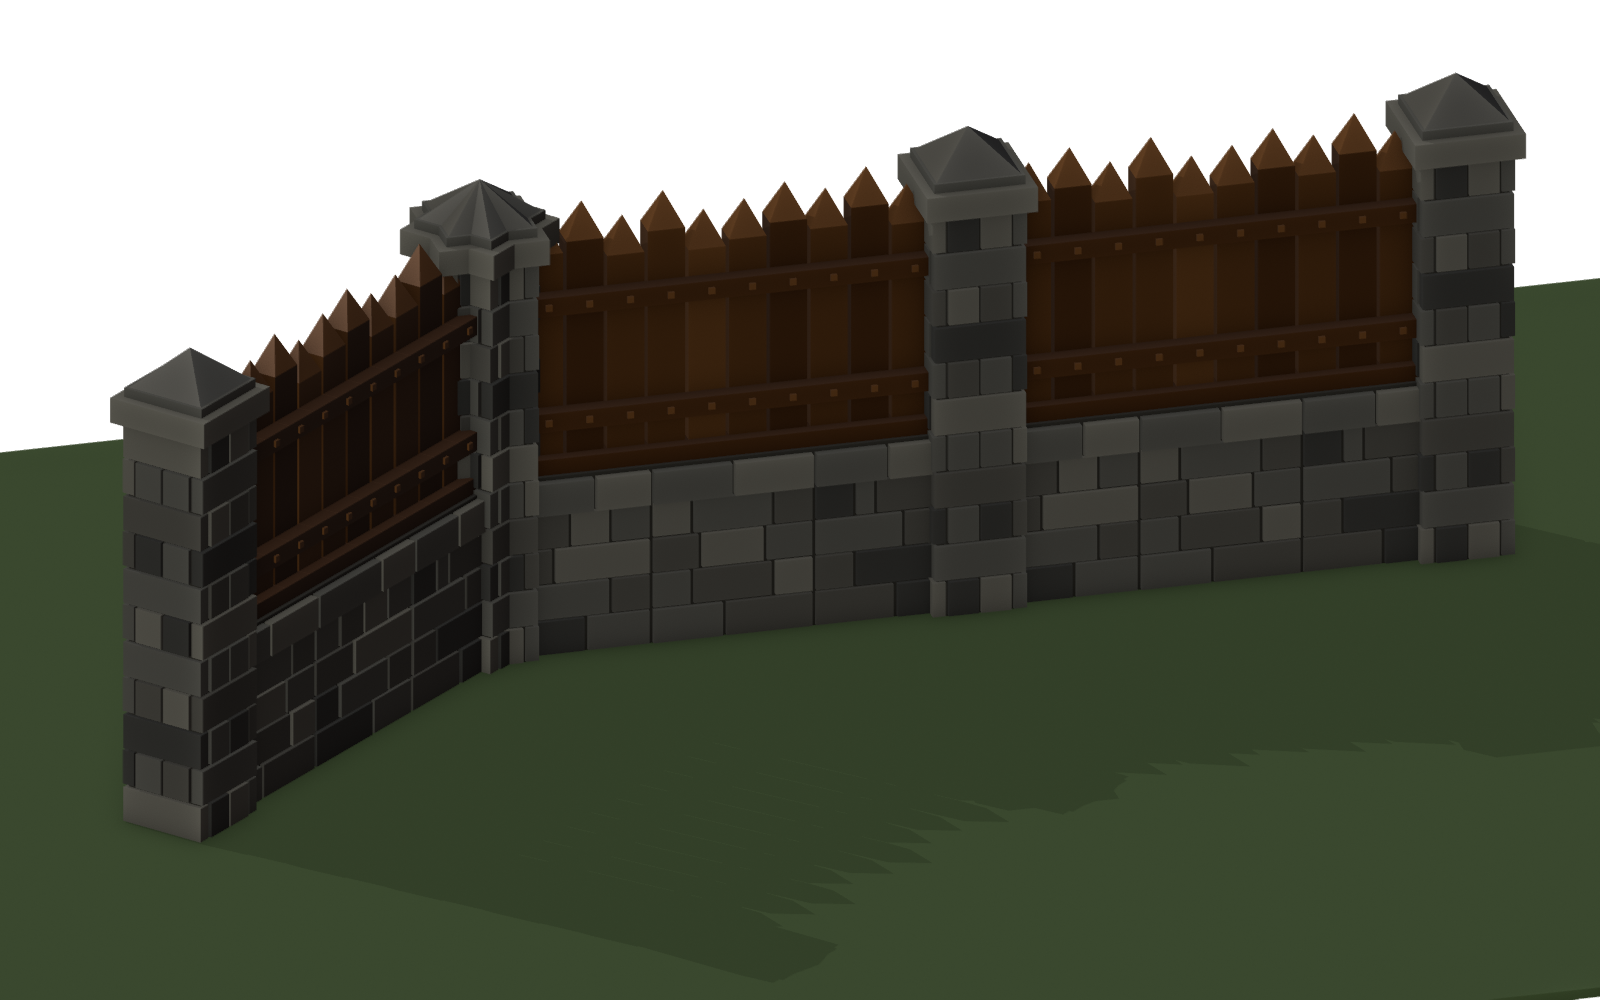
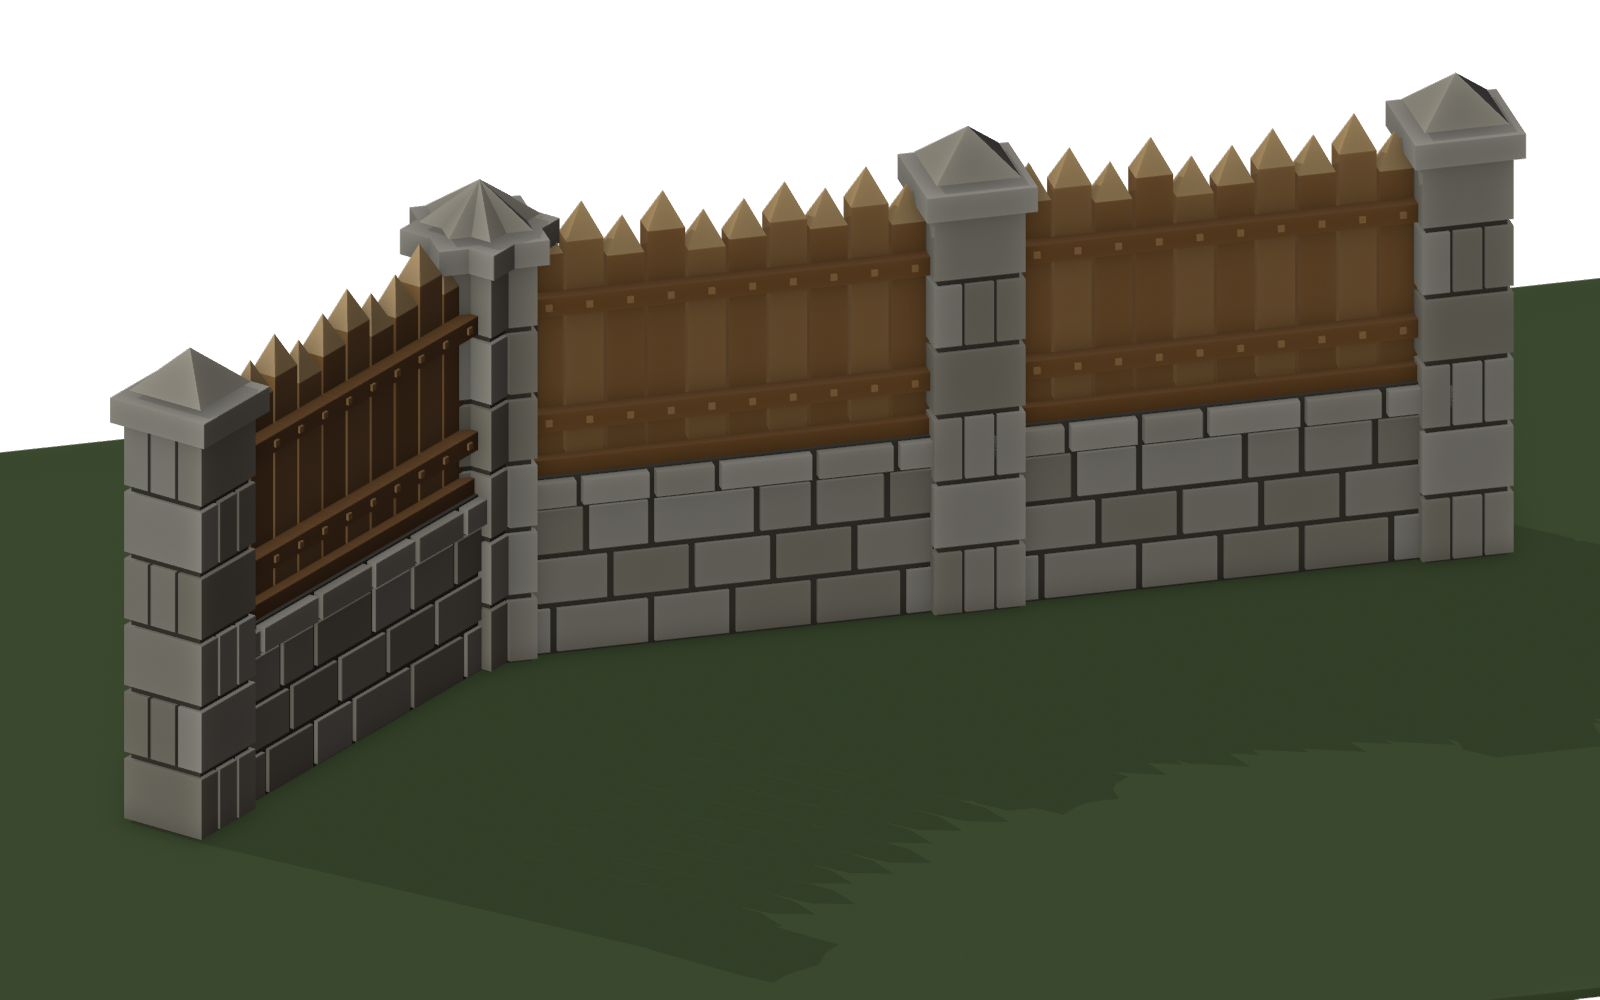
Wall level 2: fewer, chunkier, lighter stones; lighter oak
Kevin: fewer and chunkier stones, readability, lighter stones and wood.
Base 5 courses -> 3 of half-metre stones under a capstone course; pillar
11 courses -> 6; plain stones in three pale tones with wide dark joints;
shared end stones meet flush across modules; light oak, dark iron.

Claude-Session: https://claude.ai/code/session_016CGLgDxKZuNqnwErxW1EMm

diff --git a/tools/blender/wall_l2_concept.py b/tools/blender/wall_l2_concept.py
@@ -36,43 +36,53 @@ OUT=ROOT/'wall-l2-concept'
 L1=Path('/tmp/claude-0/sc/wall')         # level 1 palisade FBX copies, for the comparison render (see fetch_l1)
 L1_URL='https://media.githubusercontent.com/media/anderssonkevin94-boop/seasick/ships-into-unity/art-staging/palisade-astra-lvl1-v2/'
 
-C.update(stone_l=(146,141,128),stone_m=(112,108,99),stone_dd=(84,82,77),mortar_d=(78,74,66),
-         oak=(112,70,34),oak_d=(92,56,27),oak_l=(132,84,42))
+# Light and few: three pale stone tones over darker mortar (the joints carry the
+# read), light oak, dark iron for contrast.
+C.update(st1=(214,207,190),st2=(199,191,173),st3=(226,220,205),mortar_d=(112,105,93),
+         oak=(200,144,86),oak_d=(170,118,66),oak_l=(216,162,102),oak_tip=(232,192,134))
 
 BASE_H=1.15;BASE_T=.40                  # stone base height, thickness (Y -0.2..0.2)
-COURSE=BASE_H/5
+CAP=.19;COURSE=(BASE_H-CAP)/3           # three chunky courses and a capstone course
 SILL=(.32,.10)                          # oak sill on the base: depth, height
 TIMBER=(.23,.17)                        # width along the wall, depth
 PITCH=.25
 POST_W=.56;POST_H=3.05
 
 
-def stone_course(p,x0,x1,z0,h,joints,seed,y0=-BASE_T/2,y1=BASE_T/2):
+JOINT=.045                              # mortar joint between stones: wide, so each stone reads at game zoom
+
+
+def stone(p,c,size,tone,axis=None):
+    """One chunky block, a plain solid in one tone: the joints round it, not
+    detail on it, make it read."""
+    p.box(c,size,tone)
+
+
+def stone_course(p,x0,x1,z0,h,joints,seed,y0=-BASE_T/2,y1=BASE_T/2,flush=False):
     """One course of blocks from x0 to x1 with vertical joints at `joints`
-    (sorted, inside x0..x1), proud of a mortar core on both faces and the top."""
-    tones=('stone','stone_m','stone_l','stone','stone_m','stone_dd')
-    edges=[x0]+list(joints)+[x1]
+    (sorted, inside x0..x1), over a mortar core, through the wall's thickness.
+    flush: the end stones run right to the module ends with no joint there, so
+    they meet the neighbouring run's end stones as one stone."""
+    tones=('st1','st2','st3')
+    edges=[x0]+list(joints)+[x1];last=len(edges)-2
     for i,(a,b) in enumerate(zip(edges,edges[1:])):
-        t=tones[(seed*7+i*5)%len(tones)];inset=.012
-        bulge=.006*((seed+i)%3)
-        p.box(((a+b)/2,(y0+y1)/2,z0+h/2),(b-a-2*inset,y1-y0+.02+bulge,h-.018),t)
+        a2=a if (flush and i==0) else a+JOINT/2;b2=b if (flush and i==last) else b-JOINT/2
+        tone=tones[seed%3] if flush and i in(0,last) else tones[(seed+i*2)%3]   # both halves of the shared stone match
+        stone(p,((a2+b2)/2,(y0+y1)/2,z0+h/2),(b2-a2,y1-y0+.02,h-JOINT),tone)
 
 
 def run(name,variant):
     """A 1 m run: stone base, sill, four timbers, bands, rear rails."""
     p=Part(name)
     p.box((.5,0,BASE_H/2),(1,BASE_T-.03,BASE_H),'mortar_d')           # core
-    # Courses: even ones join at the module ends, odd ones a quarter in; the
-    # inner joints vary by variant so A/B/C read as different stones.
-    inner={'A':[(.5,),(.25,.75),(.45,),(.25,.62,.75),(.55,)],
-           'B':[(.4,),(.25,.75),(.6,),(.25,.5,.75),(.35,)],
-           'C':[(.55,),(.25,.75),(.3,.7),(.25,.75),(.5,)]}[variant]
-    for k in range(4):   # on odd courses the 0.25 m end blocks pair with the neighbour's into one stone
-        stone_course(p,0,1,k*COURSE,COURSE,inner[k],k+ord(variant))
-    # capstone course: thin, wider, overhanging both faces
-    zc=4*COURSE
-    for i,(a,b) in enumerate(zip((0,)+inner[4],inner[4]+(1,))):
-        p.box(((a+b)/2,0,zc+COURSE*.45),(b-a-.02,BASE_T+.08,COURSE*.9),('stone_l','stone')[i%2])
+    # Courses alternate: joints AT the module ends (one inner joint, by variant),
+    # then joints a quarter metre in, whose 0.25 m end stones pair with the
+    # neighbour's into one half-metre stone. The capstones join at the ends.
+    inner={'A':[(.45,),(.25,.75),(.55,),(.5,)],'B':[(.6,),(.25,.75),(.4,),(.45,)],'C':[(.5,),(.25,.75),(.35,),(.6,)]}[variant]
+    for k in range(3):stone_course(p,0,1,k*COURSE,COURSE,inner[k],k+ord(variant) if k!=1 else 1,flush=k==1)
+    zc=3*COURSE
+    for i,(a,b) in enumerate(zip((0,)+inner[3],inner[3]+(1,))):
+        stone(p,((a+b)/2,0,zc+CAP/2),(b-a-JOINT,BASE_T+.1,CAP-.03),('st3','st1')[i%2])
     # oak sill
     zs=BASE_H;p.box((.5,0,zs+SILL[1]/2),(1,SILL[0],SILL[1]),'oak_d')
     # timbers: squared, chamfered corners suggested by a darker face strip, adzed points
@@ -80,16 +90,16 @@ def run(name,variant):
     z0=zs+SILL[1]
     for i in range(4):
         x=.125+i*PITCH;top=tops[i];w,d=TIMBER
-        tone=('oak','oak_l','oak','oak_d')[(i+ord(variant))%4]
+        tone=('oak','oak_l','oak','oak_l')[(i+ord(variant))%4]
         p.box((x,0,(z0+top)/2),(w,d,top-z0),tone)
         tip=top+.22                                           # four-sided point
         hw,hd=w/2,d/2
         p._add([Vector((x-hw,-hd,top)),Vector((x+hw,-hd,top)),Vector((x+hw,hd,top)),Vector((x-hw,hd,top)),Vector((x,0,tip))],
-               [(0,1,4),(1,2,4),(2,3,4),(3,0,4),(3,2,1,0)],'oak_l')
+               [(0,1,4),(1,2,4),(2,3,4),(3,0,4),(3,2,1,0)],'oak_tip')
     # iron bands across the front, riveted to every timber
     for zb in(1.62,2.22):
         p.box((.5,-TIMBER[1]/2-.008,zb),(1,.016,.07),'iron')
-        for i in range(4):p.box((.125+i*PITCH,-TIMBER[1]/2-.02,zb),(.035,.012,.035),'stone_dd')
+        for i in range(4):p.box((.125+i*PITCH,-TIMBER[1]/2-.02,zb),(.035,.012,.035),'iron')
     # rear rails and pegs
     for zr in(1.5,2.25):
         p.box((.5,TIMBER[1]/2+.05,zr),(1,.1,.12),'oak_d')
@@ -98,26 +108,24 @@ def run(name,variant):
 
 
 def post(name):
-    """Stone pillar: quoined courses (long and short faces alternate), a
-    capstone and a pointed cap. Root at the start edge, centre at x=POST_W/2."""
-    p=Part(name);c=POST_W/2;h=POST_H-.45;n=11;ch=h/n
-    p.box((c,0,h/2),(POST_W-.04,POST_W-.04,h),'mortar_d')
-    tones=('stone','stone_m','stone_l','stone_dd','stone')
+    """Stone pillar: six chunky courses, the corner stones alternating which
+    face runs long, a wider capstone and a pointed cap. Root at the start
+    edge, centre at x=POST_W/2."""
+    p=Part(name);c=POST_W/2;h=POST_H-.45;n=6;ch=h/n;W=POST_W;t=.17
+    p.box((c,0,h/2),(W-.06,W-.06,h),'mortar_d')
+    tones=('st1','st2','st3')
     for k in range(n):
-        z=k*ch;t=lambda j:tones[(k*3+j)%len(tones)]
-        if k%2:   # long blocks on the X faces, short on the Y faces
-            for s in(-1,1):p.box((c,s*(POST_W/2-.03),z+ch/2),(POST_W,.08,ch-.018),t(s+1))
-            for s in(-1,1):
-                for j,(a,b) in enumerate(((-.2,.0),(.0,.2))):p.box((c+s*(POST_W/2-.03),(a+b)/2,z+ch/2),(.08,b-a-.016,ch-.018),t(j+2))
+        z=k*ch+ch/2;tn=lambda j:tones[(k+j)%3];hh=ch-JOINT
+        if k%2:   # long stones on the front and back faces, short on the sides
+            for j,sy in enumerate((-1,1)):stone(p,(c,sy*(W/2-t/2),z),(W,t,hh),tn(j),1)
+            for j,sx in enumerate((-1,1)):stone(p,(c+sx*(W/2-t/2),0,z),(t,W-2*t-JOINT,hh),tn(j+2),0)
         else:
-            for s in(-1,1):p.box((c+s*(POST_W/2-.03),0,z+ch/2),(.08,POST_W,ch-.018),t(s+1))
-            for s in(-1,1):
-                for j,(a,b) in enumerate(((-.2,.0),(.0,.2))):p.box((c+(a+b)/2,s*(POST_W/2-.03),z+ch/2),(b-a-.016,.08,ch-.018),t(j+2))
-    p.box((c,0,h+.08),(POST_W+.12,POST_W+.12,.16),'stone_l')            # capstone
-    p.box((c,0,h+.19),(POST_W,POST_W,.06),'stone')
-    a=POST_W/2-.02;top=POST_H
-    p._add([Vector((c-a,-a,h+.22)),Vector((c+a,-a,h+.22)),Vector((c+a,a,h+.22)),Vector((c-a,a,h+.22)),Vector((c,0,top))],
-           [(0,1,4),(1,2,4),(2,3,4),(3,0,4),(3,2,1,0)],'stone_m')
+            for j,sx in enumerate((-1,1)):stone(p,(c+sx*(W/2-t/2),0,z),(t,W,hh),tn(j),0)
+            for j,sy in enumerate((-1,1)):stone(p,(c,sy*(W/2-t/2),z),(W-2*t-JOINT,t,hh),tn(j+2),1)
+    stone(p,(c,0,h+.08),(W+.12,W+.12,.16),'st3',1)                    # capstone
+    a=W/2-.02;top=POST_H
+    p._add([Vector((c-a,-a,h+.2)),Vector((c+a,-a,h+.2)),Vector((c+a,a,h+.2)),Vector((c-a,a,h+.2)),Vector((c,0,top))],
+           [(0,1,4),(1,2,4),(2,3,4),(3,0,4),(3,2,1,0)],'st2')
     return p
 
 
@@ -194,7 +202,7 @@ def main():
         place(o,at,yaw);o.location-=Matrix.Rotation(math.radians(yaw),3,'Z')@Vector((POST_W/2,0,0))
     end=wall_line(mk_run,mk_post,(0,0,0),0,[3,3])
     wall_line(mk_run,mk_post,end,40,[3])
-    ground=Part('ground');ground.box((3.5,1.5,-.03),(16,10,.06),'mortar');g=ground.build(objs)
+    ground=Part('ground');ground.box((3.5,1.5,-.03),(16,10,.06),'mortar_d');g=ground.build(objs)
     g.data.color_attributes['Col'].data.foreach_set('color',[v for _ in range(len(g.data.loops)) for v in (*[S.lin(c) for c in (104,128,78)],1)])
     # the deckhand for scale, outside the wall
     holder,_=S.load_deckhand();holder.location=(2.1,-1.1,0)

diff --git a/wall-l2-concept/README.md b/wall-l2-concept/README.md
@@ -7,14 +7,18 @@ Kevin, 2026-10-01: *"half wood (sturdier wood) and half stone blocks towards the
 
 ## The design
 
-- **Base:** stone blocks, 1.15 m high (chest height on the 1.7 m deckhand) and 0.40 m thick, in four courses
-  under a wider capstone course. The base is mortared rather than dry-laid: the stones stand slightly proud
-  of the mortar, with varied tones.
-- **Upper half:** squared timbers, 0.23 × 0.17 m, about three times the bulk of the level 1 stakes. They are
-  hewn to points, stand on an oak sill, and have two riveted iron bands across the front and two rails with
-  pegs at the rear. The tops are at 2.45–2.65 m, varied per run so a long wall doesn't look stamped out.
-- **Pillar:** stone all the way up, 0.56 m square, with alternating block courses at the corners, a wider
-  capstone and a pointed stone cap, 3.05 m high.
+- **Base:** big stone blocks, 1.15 m high (chest height on the 1.7 m deckhand) and 0.40 m thick: three courses
+  of roughly half-metre stones under a wider capstone course. The stones are plain solid blocks in three pale
+  tones over darker mortar. The wide joints (4.5 cm) carry the read at game zoom, not detail on the stones.
+- **Upper half:** squared timbers in light oak, 0.23 × 0.17 m, about three times the bulk of the level 1 stakes.
+  They are hewn to points, stand on an oak sill, and have two riveted iron bands across the front (kept dark
+  for contrast) and two rails with pegs at the rear. The tops are at 2.45–2.65 m, varied per run.
+- **Pillar:** the same pale stone all the way up, 0.56 m square, in six chunky courses whose corner stones
+  alternate which face runs long, with a wider capstone and a pointed stone cap, 3.05 m high.
+
+Revised 2026-10-01 (Kevin: *"fewer and chunkier ... keep in mind the readability ... lighter stones and
+lighter wood"*): five courses became three, the pillars went from eleven courses to six, and the stone and
+oak both moved several steps lighter.
 
 ## Same contract as the level 1 palisade
 
@@ -24,8 +28,8 @@ it too:
 - Metres, Blender +X along the wall, +Y the rear, +Z up.
 - Each run's origin is at its start end, on the ground, with `<Part>__Snap_Start` (0,0,0) and `__Snap_End` (1,0,0).
 - Timbers sit on the same 0.25 m spacing (centres at 0.125 + i·0.25).
-- **The modules tile seamlessly:** courses alternate between joints at the module ends and joints a quarter
-  metre in, so the quarter-metre end blocks of two runs make one stone. Variants A, B and C differ in joints
+- **The modules tile seamlessly:** the middle course has quarter-metre end stones that run flush to the
+  module ends, so two runs' end stones meet as one half-metre stone. The other courses joint at the module ends. Variants A, B and C differ in joints
   and timber heights, and any order works.
 - **Pillars:** each pillar's origin is at its start edge, and `Wall2_Post__Post_Center` (0.28,0,0) goes on the
   bend or end point. The pillar is wider than the run (0.56 m against 0.40 m), so it hides run ends at
@@ -33,8 +37,8 @@ it too:
 
 | Piece | Triangles |
 |---|---|
-| `Wall2_Run_1m_A` / `B` / `C` | 492 each |
-| `Wall2_Post` | 834 |
+| `Wall2_Run_1m_A` / `B` / `C` | 444 each |
+| `Wall2_Post` | 318 |
 
 ## Files
 
